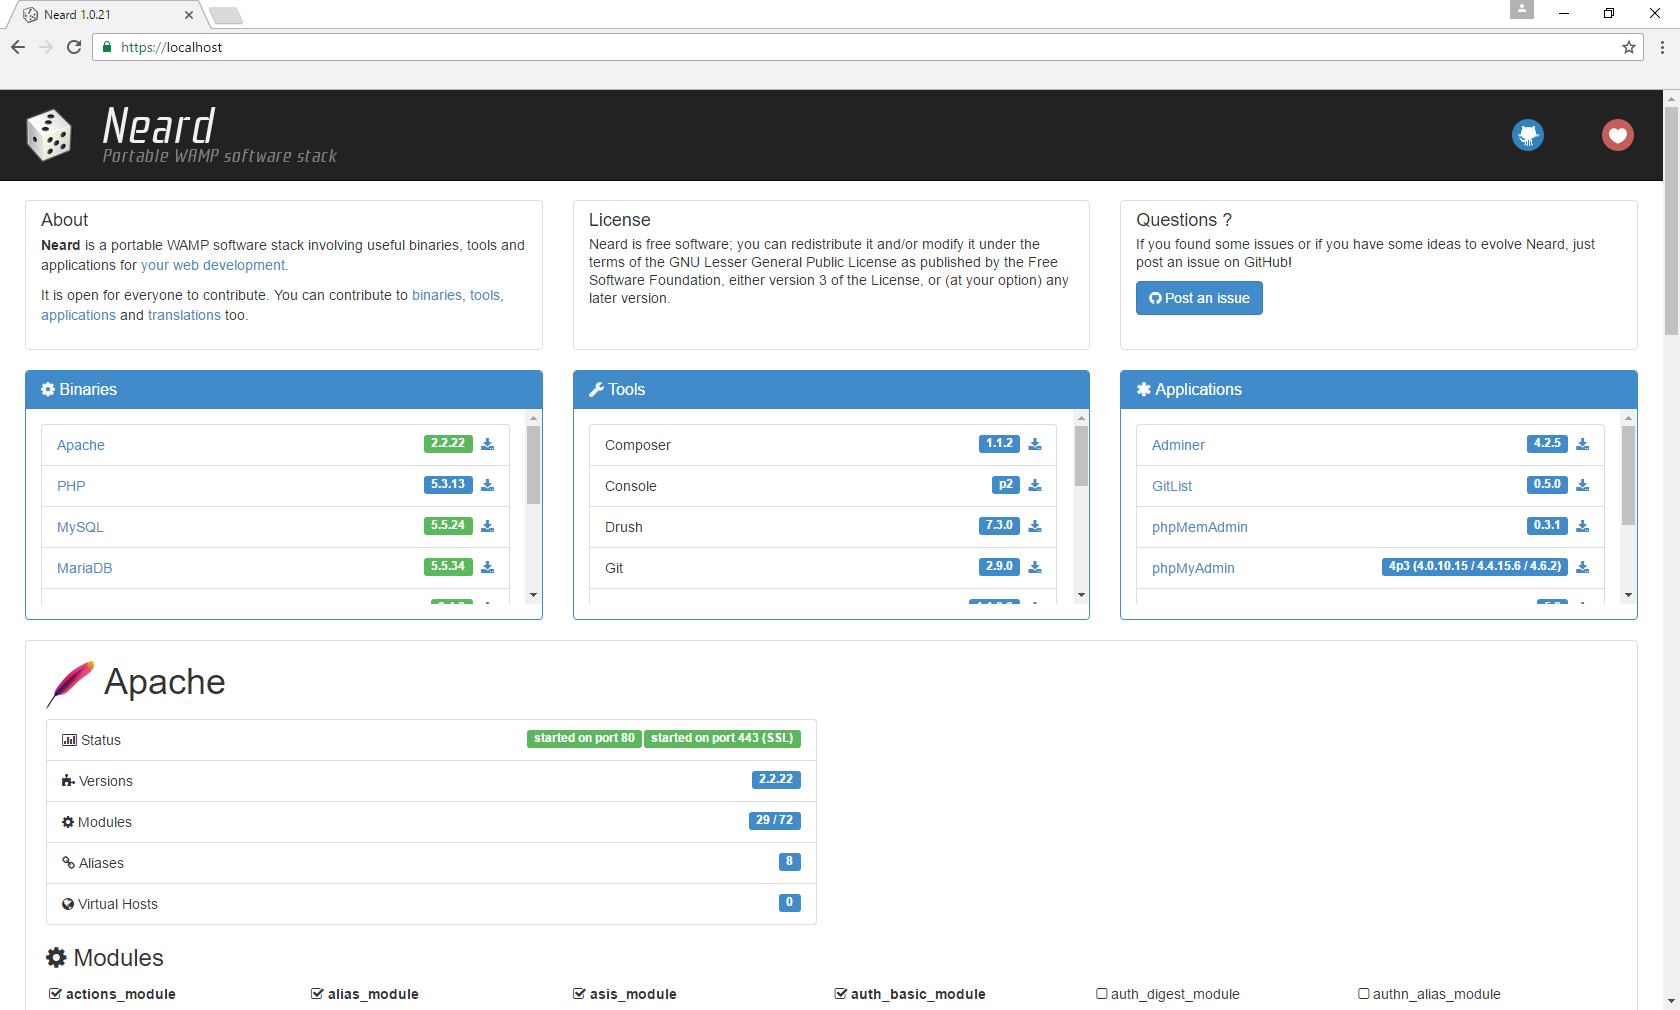
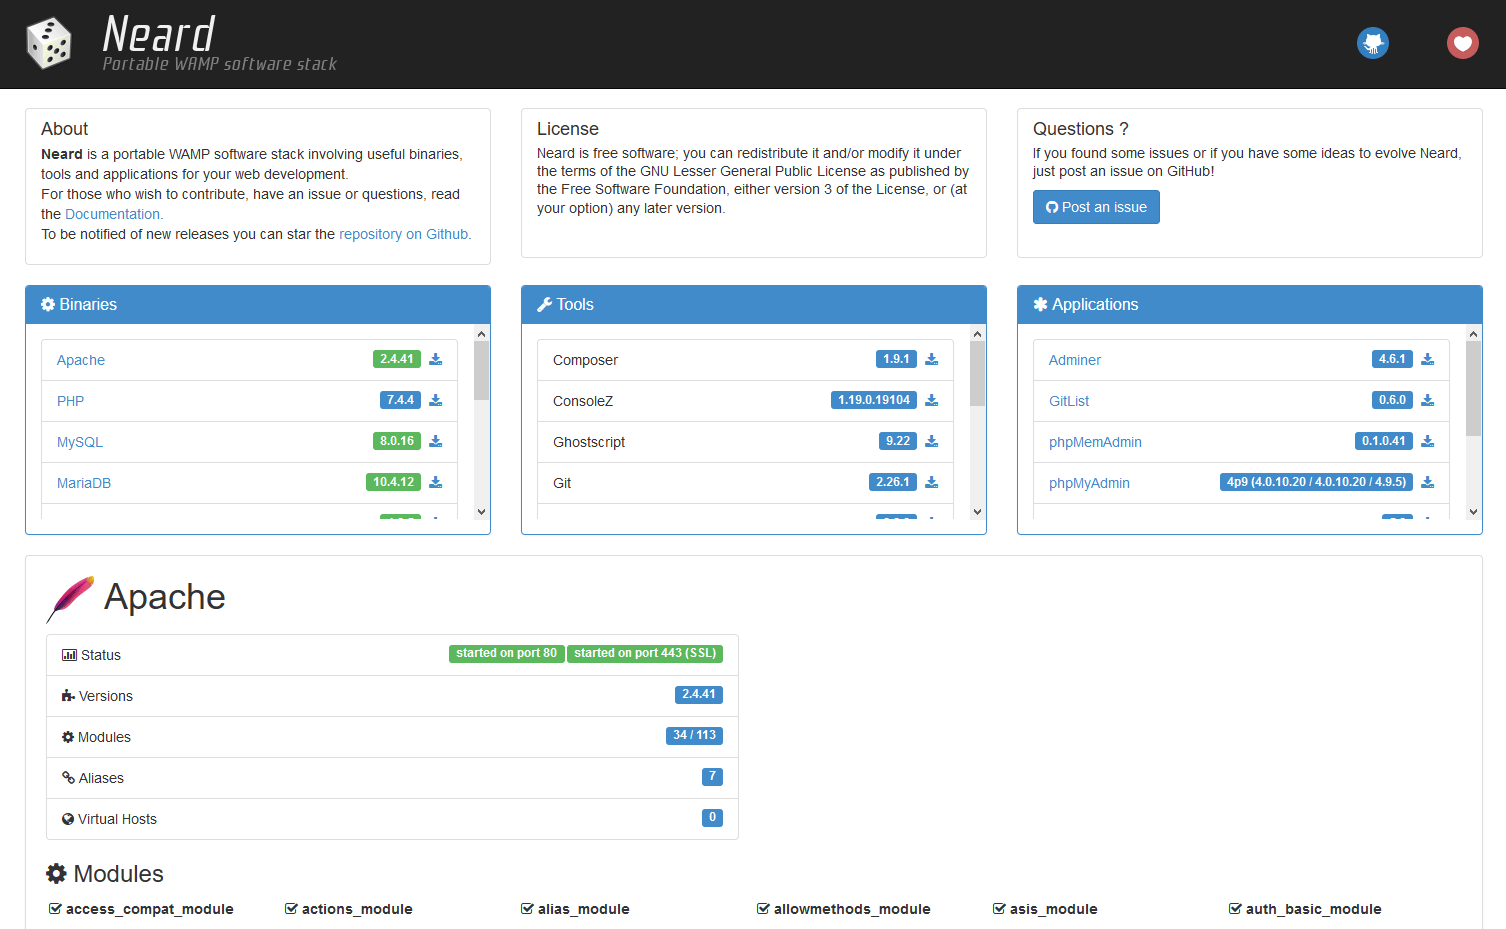
Neard 1.8.0

diff --git a/src/_layouts/release.html b/src/_layouts/release.html
@@ -15,6 +15,7 @@ markdown_body: ""
       <th>Download</th>
       <th>Size</th>
       <th>Verification</th>
+      <th>Description</th>
     </tr>
     </thead>
     <tbody>
@@ -24,6 +25,7 @@ markdown_body: ""
       <td><span class="release-download"><a class="btn btn-success btn-sm" href="{{ site.baseurl | prepend: '/' | replace: '//', '/' }}download/{{ asset.name }}/"><i class="fa fa-download"></i>&nbsp;&nbsp;{{ asset.name }}</a></span></td>
       <td>{{ asset.size | filesize }}</td>
       <td>[<a href="{{ site.baseurl }}/download/{{ asset.name }}.md5/">MD5</a>]&nbsp;[<a href="{{ site.baseurl }}/download/{{ asset.name }}.sha1/">SHA1</a>]&nbsp;[<a href="{{ site.baseurl }}/download/{{ asset.name }}.sha256/">SHA256</a>]&nbsp;[<a href="{{ site.baseurl }}/download/{{ asset.name }}.sha512/">SHA512</a>]</td>
+      <td>{% if asset.name contains '-basic' %}Only Apache, PHP, MySQL services and some tools are included{% elsif asset.name contains '-light' %}Only Apache and PHP services are included{% else %}All modules are included{% endif %}</td>
     </tr>
     {% endunless %}{% endfor %}
     </tbody>

diff --git a/src/_pages/doc/faq.md b/src/_pages/doc/faq.md
@@ -294,14 +294,10 @@ And as you can see some paths are automatically added :
 * NEARD_PATH\bin\nodejs\nodejs*
 * NEARD_PATH\bin\svn\svn*
 * NEARD_PATH\tools\composer\composer*
-* NEARD_PATH\tools\drush\drush*
 * NEARD_PATH\tools\git\git*\bin
 * NEARD_PATH\tools\imagemagick\imagemagick*
-* NEARD_PATH\tools\phpmetrics\phpmetrics*
-* NEARD_PATH\tools\phpunit\phpunit*
 * NEARD_PATH\tools\python\python*\bin
 * NEARD_PATH\tools\ruby\ruby*\bin
-* NEARD_PATH\tools\wpcli\wpcli*
 
 ## Service cannot start on Windows 10 Creators Update
 

diff --git a/src/_posts/2020-04-19-neard-1.8.0-released.md b/src/_posts/2020-04-19-neard-1.8.0-released.md
@@ -1,0 +1,10 @@
+---
+layout: post
+title: Neard 1.8.0 released
+date: 2020-04-19 10:04:00 +0200
+tags: [neard]
+---
+{% include vars.html %}
+
+Neard 1.8.0 has been released. Basic and light releases are now available!<br />
+Download, full changelog and upgrade notes are available on the [release page](/release/1.8.0/).
